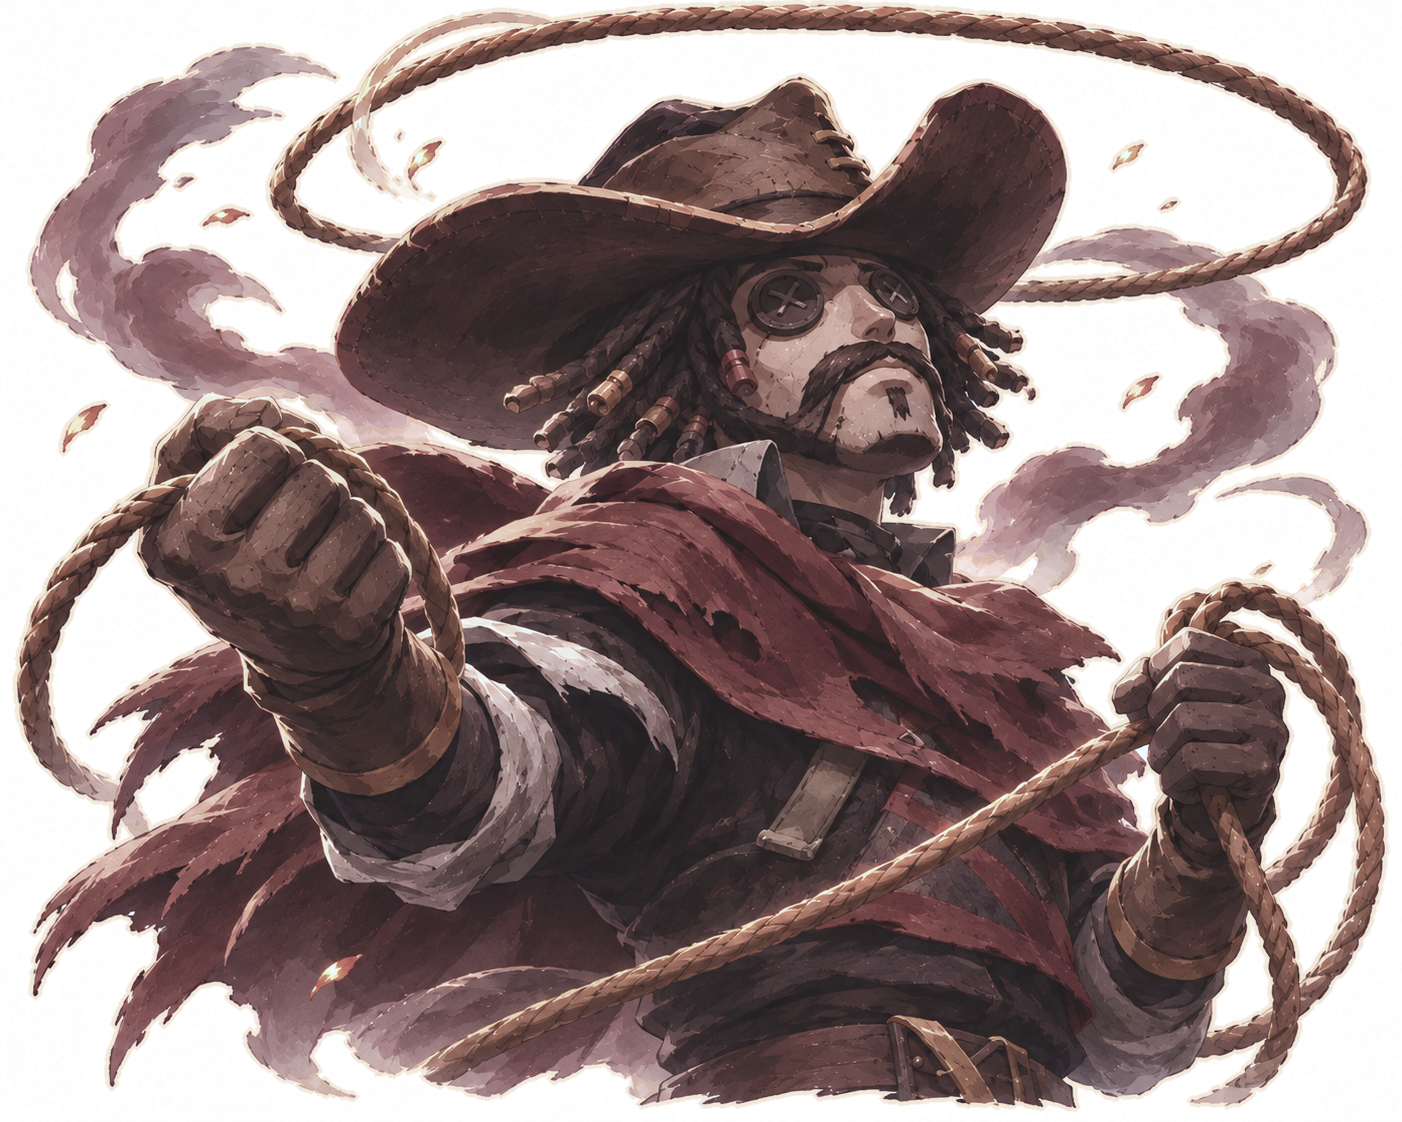
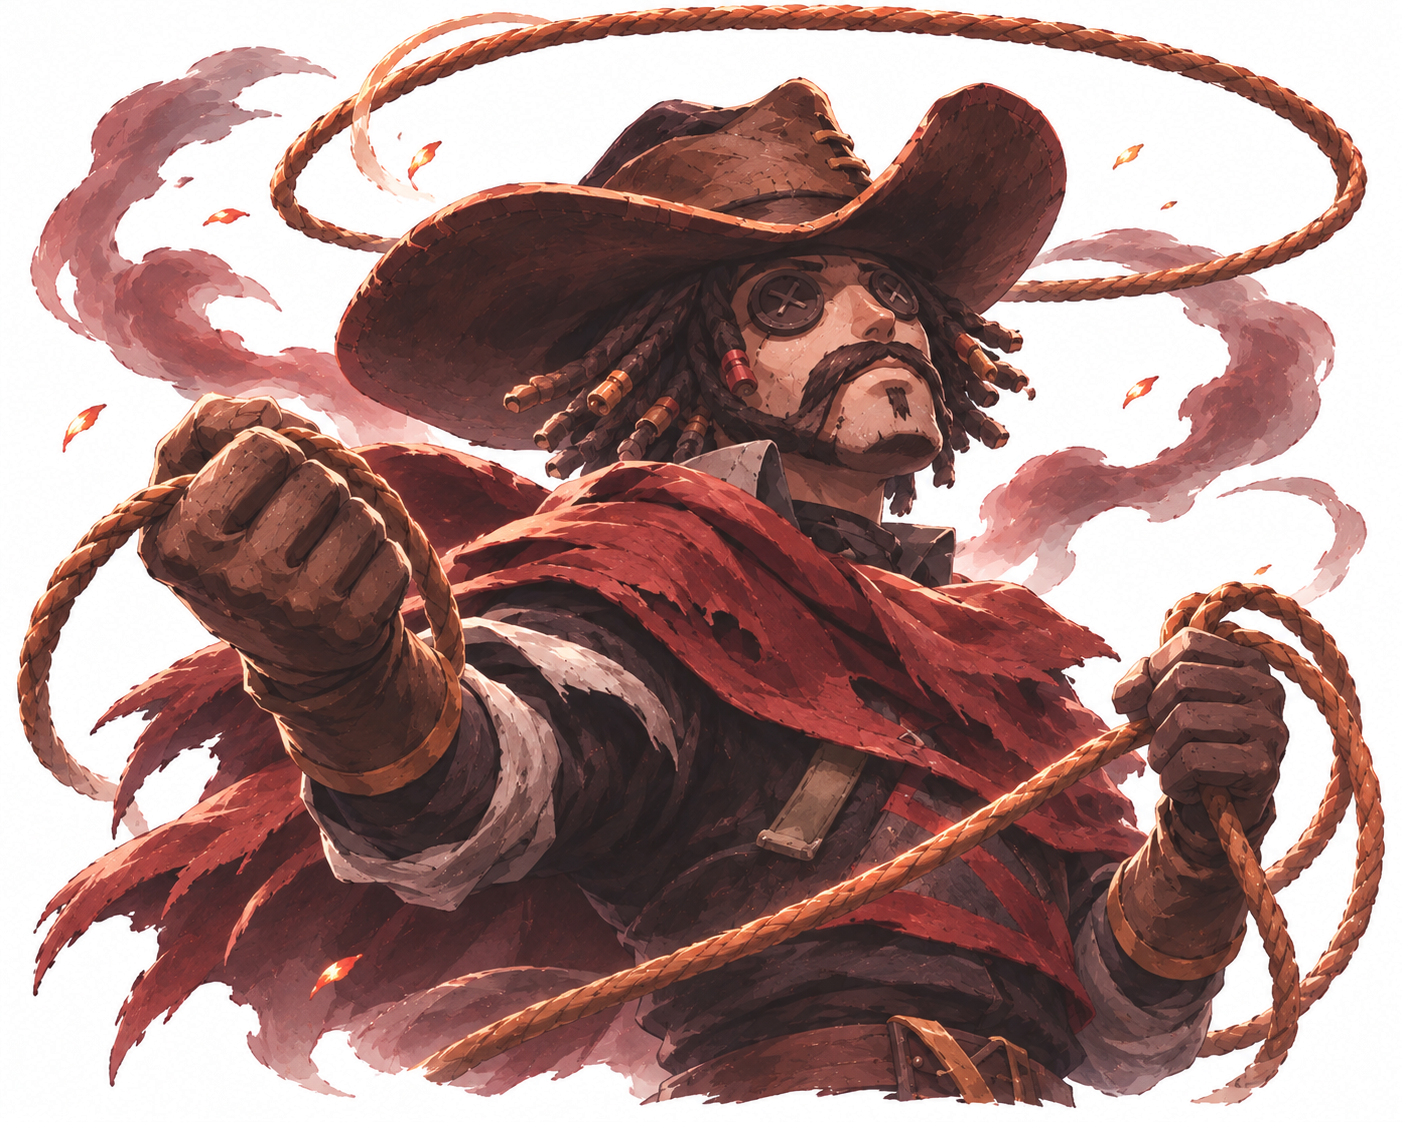
[FE] 카우보이 일러스트를 원본 색 그대로(테두리 선·붉은빛 중화 뺌, 누끼만), 선택 화면에서 10% 작게

diff --git a/Assets/Scripts/UI/Editor/IllustrationImporter.cs b/Assets/Scripts/UI/Editor/IllustrationImporter.cs
@@ -29,10 +29,10 @@ namespace Project1.UI.Editor
         private static readonly Dictionary<string, (int min, int max)> EnclosedRanges = new() { ["Hunter_Gamekeeper"] = (20, int.MaxValue), ["Survivor_Cowboy"] = (200, int.MaxValue), ["Survivor_Mercenary"] = (80, int.MaxValue), ["Hunter_Hastur"] = (60, int.MaxValue) };
         // 흰 배경 빼기를 더 세게(그림마다) — 둘레에 날리는 옅은 천 조각 효과까지 배경으로 빼 버린다. 지금은 쓰는 그림 없음.
         private static readonly Dictionary<string, (float flood, float full, float step)> StrongWhite = new();
-        // 누끼 뒤 붉은빛 중화 세기(그림마다, 0~1): 카우보이 — 너무 붉지 않게.
-        private static readonly Dictionary<string, float> RedTone = new() { ["Survivor_Cowboy"] = 1f };
-        // 누끼 뒤 캐릭터 둘레에 그리는 테두리(그림마다): 두께(픽셀)와 색. 카우보이 — 테두리 강화.
-        private static readonly Dictionary<string, (int width, Color32 color)> Outline = new() { ["Survivor_Cowboy"] = (4, new Color32(245, 236, 222, 255)) };
+        // 누끼 뒤 붉은빛 중화 세기(그림마다, 0~1). 지금은 쓰는 그림 없음(카우보이는 원본 색 그대로).
+        private static readonly Dictionary<string, float> RedTone = new();
+        // 누끼 뒤 캐릭터 둘레에 그리는 테두리(그림마다): 두께(픽셀)와 색. 지금은 쓰는 그림 없음.
+        private static readonly Dictionary<string, (int width, Color32 color)> Outline = new();
         // 지킬 칸(그림 위쪽 기준 픽셀 x, y, 너비, 높이) — 사냥터지기: 이마(뿔 사이 흰 털)와 가슴의 흰 셔츠(목깃부터 허리띠 위까지).
         private static readonly Dictionary<string, RectInt[]> ProtectRects = new() { ["Hunter_Gamekeeper"] = new[] { new RectInt(452, 198, 150, 132), new RectInt(464, 330, 106, 60), new RectInt(410, 390, 300, 250) },
             // 검은 배경 그림: 배경에 붙은 검은 옷(칸 안에서는 새까만 배경만 빠짐)

diff --git a/Assets/Scripts/UI/CharacterSelect/CharacterSelectView.cs b/Assets/Scripts/UI/CharacterSelect/CharacterSelectView.cs
@@ -55,7 +55,7 @@ namespace Project1.UI
         // 일러스트 가로 압축(캐릭터별). 재앙의 도마뱀: 좌우로 너무 빵빵하게 꽉 차서 조금 좁힘.
         private static readonly Dictionary<string, float> IllustrationWidthScale = new() { ["Hunter_Luchino"] = 0.85f };
         // 일러스트 전체 크기(캐릭터별, 아래 가운데 기준). 용병·재앙의 도마뱀: 조금 크게 꽉 차 보여 10% 줄임.
-        private static readonly Dictionary<string, float> IllustrationSizeScale = new() { ["Survivor_Mercenary"] = 0.9f, ["Hunter_Luchino"] = 0.9f, ["Hunter_Antonio"] = 0.9f, ["Survivor_Thief"] = 0.9f };
+        private static readonly Dictionary<string, float> IllustrationSizeScale = new() { ["Survivor_Mercenary"] = 0.9f, ["Hunter_Luchino"] = 0.9f, ["Hunter_Antonio"] = 0.9f, ["Survivor_Thief"] = 0.9f, ["Survivor_Cowboy"] = 0.9f };
         // 일러스트를 아래로 내리는 거리(기준 픽셀, 캐릭터별). 안토니오: 조금 아래로.
         private static readonly Dictionary<string, float> IllustrationDropY = new() { ["Hunter_Antonio"] = 35f };
         private float illusDropY;

diff --git a/Assets/UI/Resources/Illustrations/README.md b/Assets/UI/Resources/Illustrations/README.md
@@ -15,7 +15,7 @@
 | 리퍼 | Hunter_Ripper.png | ✅ (1402×1122, 검은 배경 — 채팅 첨부본, 원본 PNG 오면 바꿈) |
 | 광대 | Hunter_SmileyFace.png | ✅ (1402×1122, 흰 배경) |
 | 공군 | Survivor_Coordinator.png | ✅ (1402×1122, 흰 배경) |
-| 카우보이 | Survivor_Cowboy.png | ✅ (1402×1122, 흰 배경 — 붉은빛 중화 + 테두리 선) |
+| 카우보이 | Survivor_Cowboy.png | ✅ (1402×1122, 흰 배경 — 원본 색 그대로) |
 | 의사 | Survivor_Doctor.png | ✅ (1402×1122, 흰 배경) |
 | 포워드 | Survivor_Forward.png | ✅ (1402×1122, 원본 투명 배경 그대로) |
 | 용병 | Survivor_Mercenary.png | ✅ (1402×1122, 흰 배경 — 붉은빛을 조금 빼고 넣음) |
